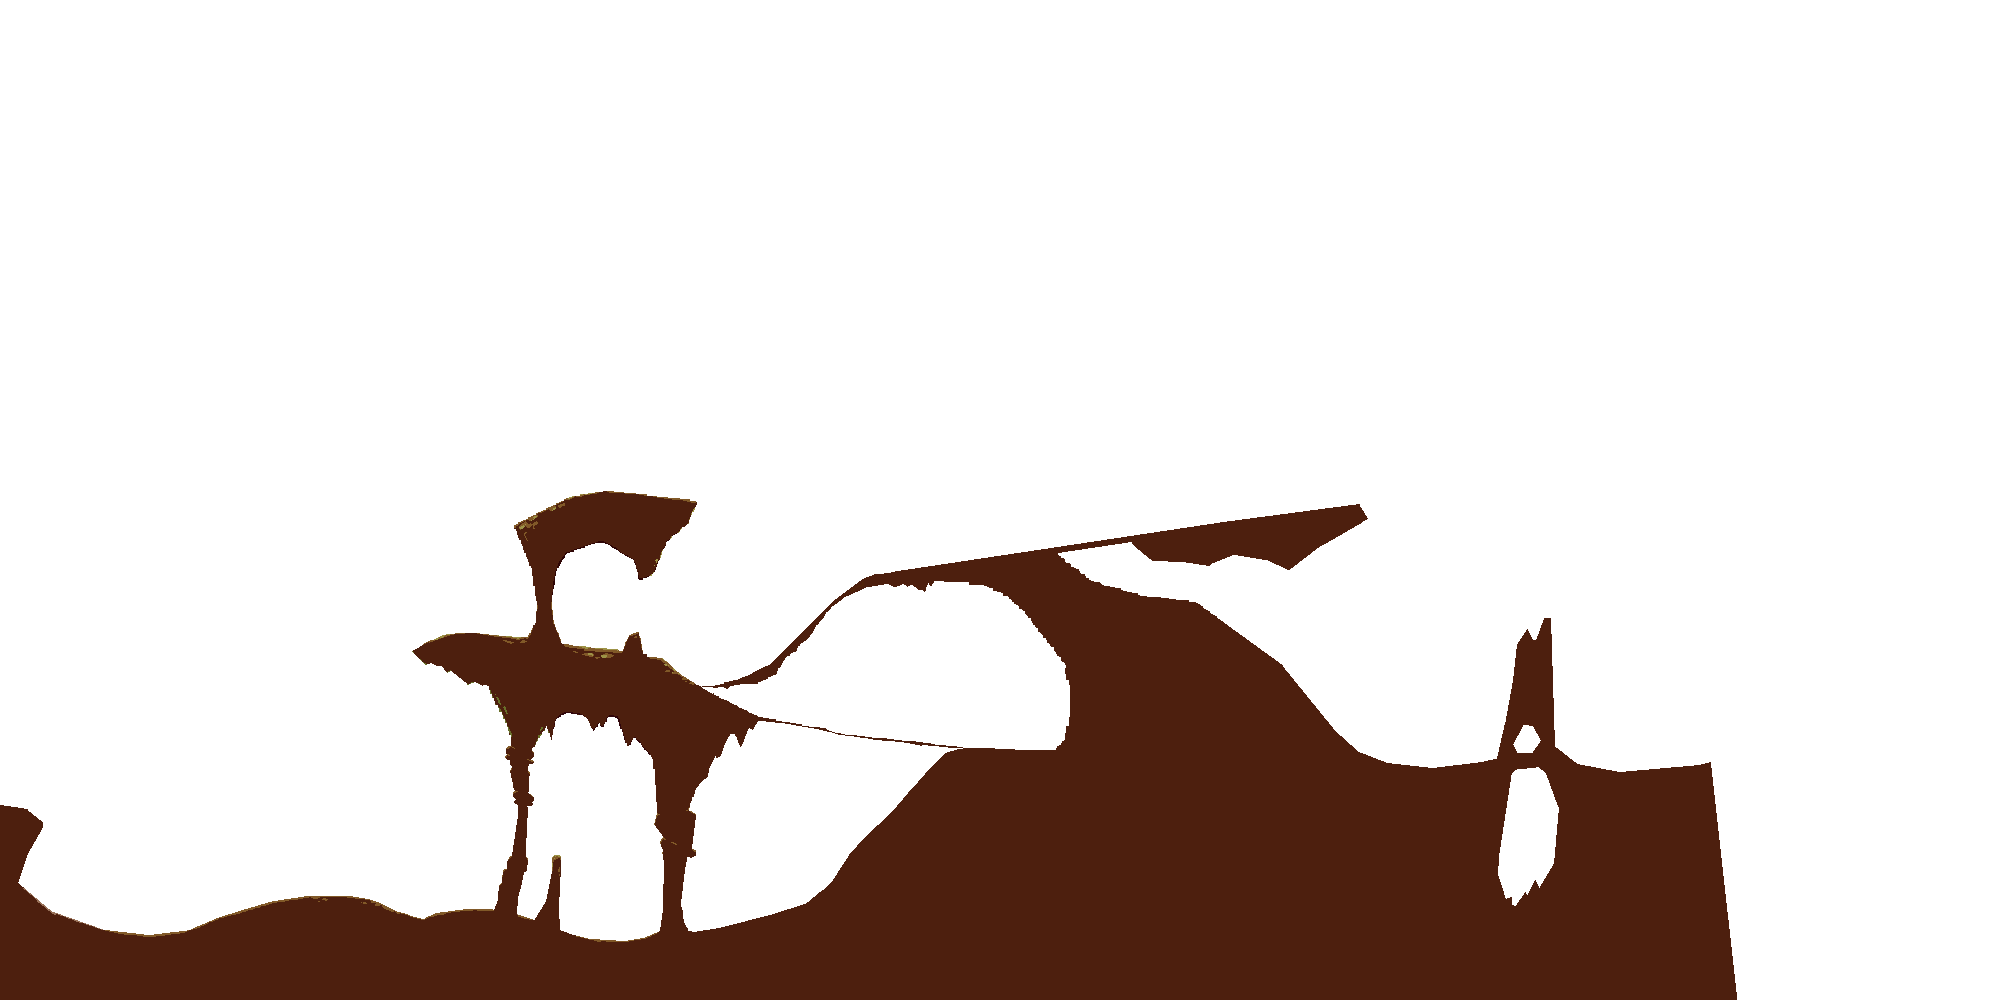
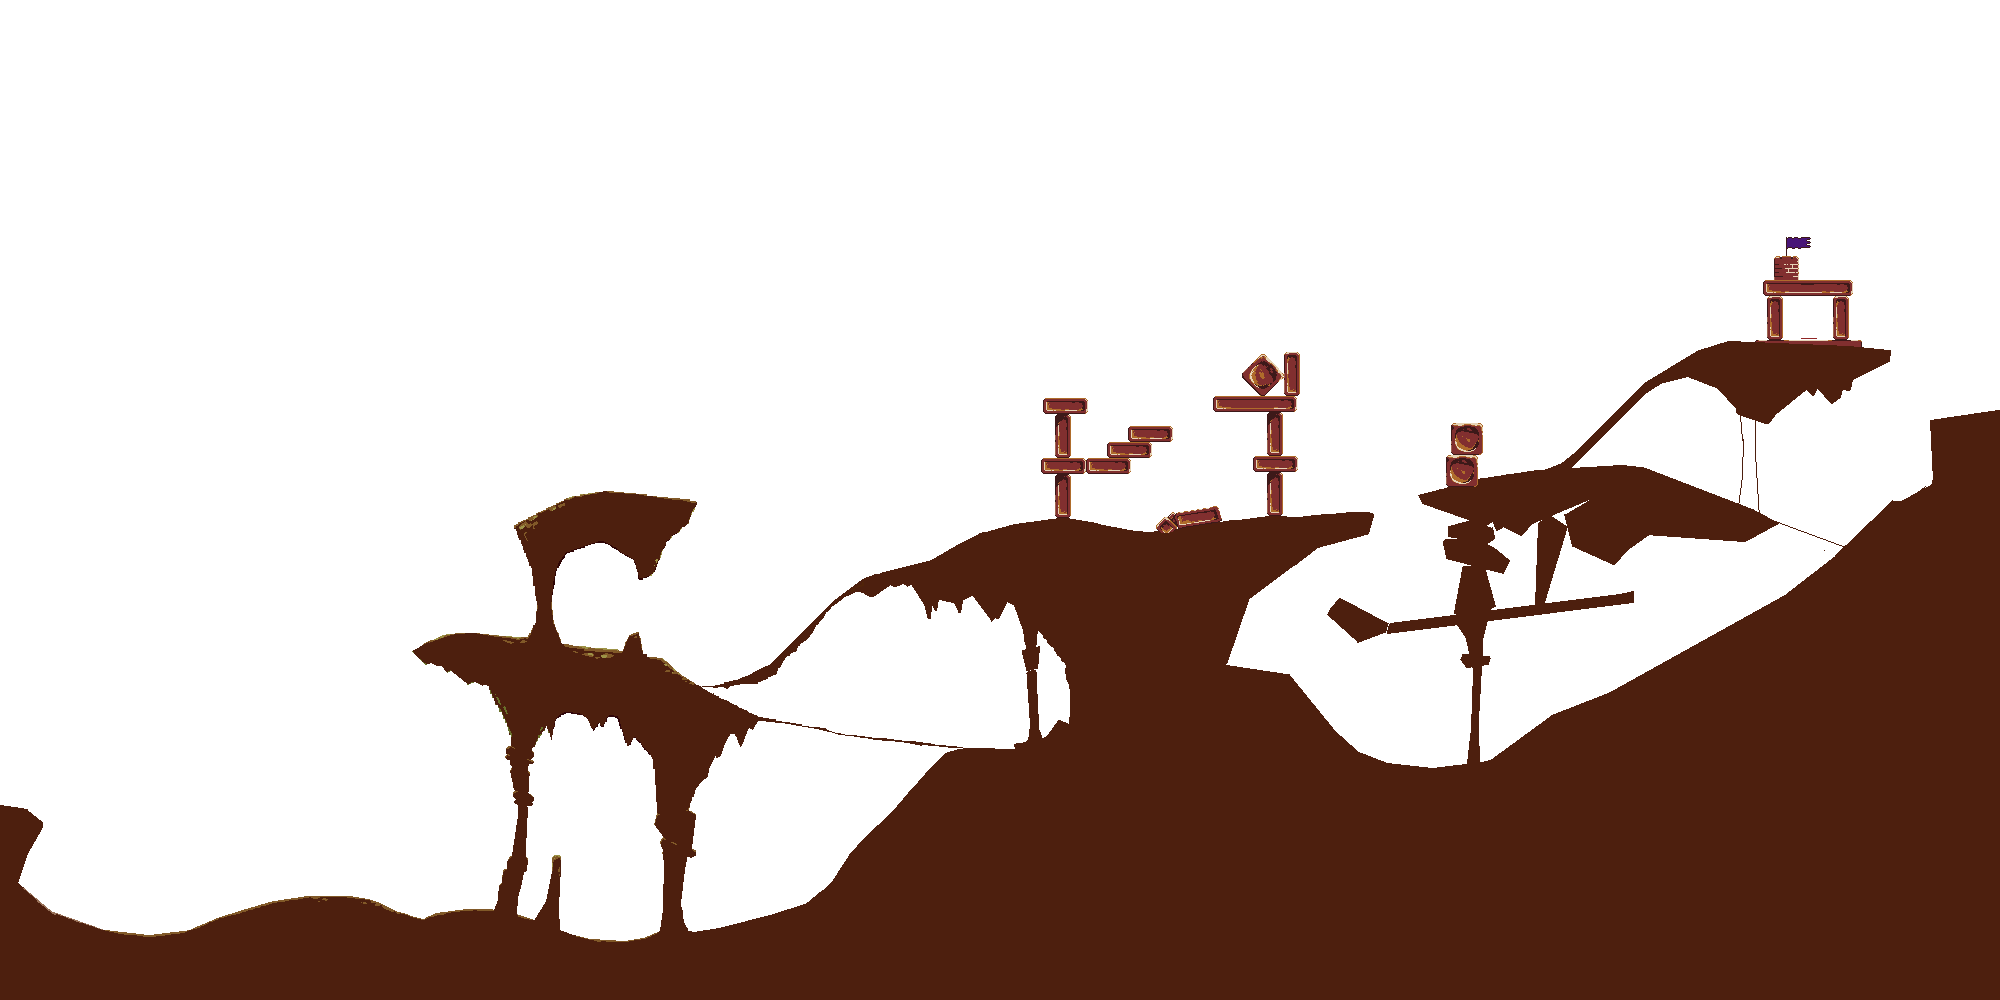
updated level and changed resolution, use a different resolution if the screen is showing black, so you know

Changed region(s): [[0.434, 0.341, 1.0, 1.0], [0.806, 0.248, 0.961, 0.434]]

diff --git a/src/pingus_world_tour.cpp b/src/pingus_world_tour.cpp
@@ -23,6 +23,7 @@ PingusWorldTour::LoadResources(){
     asset_manager.LoadDecal("../res/assets/exit_simple.png", "goal");
     asset_manager.LoadDecal("../res/assets/dev_terrain_remover.png", "terrain_remover");
     asset_manager.LoadDecal("../res/assets/bomber_explostion_range.png", "bomber_explosion_range");
+    asset_manager.LoadDecal("../res/assets/helicopter_placeholder.png", "helicopter");
     asset_manager.LoadDecal("../res/assets/widgets/exit_button_neutral.png", "exit_button_neutral");
     asset_manager.LoadDecal("../res/assets/widgets/exit_button_hover.png", "exit_button_hover");
     asset_manager.LoadDecal("../res/assets/widgets/exit_button_clicked.png", "exit_button_clicked");
@@ -30,7 +31,7 @@ PingusWorldTour::LoadResources(){
     asset_manager.LoadDecal("../res/assets/widgets/restart_button_hover.png", "restart_button_hover");
     asset_manager.LoadDecal("../res/assets/widgets/restart_button_clicked.png", "restart_button_clicked");
 
-    PlayLevel* play_level = new PlayLevel(&state_machine ,this, "../res/map/pingus_first_level/pingus_first_level.json");
+    PlayLevel* play_level = new PlayLevel(&state_machine ,this, "../res/map/autumn_day_clear_the_way/autumn_day_clear_the_way.json");
     state_machine.state_stack.push_back(play_level);
     state_machine.state_stack.push_back(new LevelLoader(&state_machine, &(play_level->level)));
     //state_machine.state_stack.push_back(new JsonLoadingTest(&state_machine));

diff --git a/src/spawner.cpp b/src/spawner.cpp
@@ -38,7 +38,9 @@ Spawner::Update(){
 }
 
 void
-Spawner::Draw(Camera* _camera){}
+Spawner::Draw(Camera* _camera){
+    _camera->DrawDecal(position-olc::vf2d(50.0f,50.0f), game->asset_manager.GetDecal("helicopter"));
+}
 
 std::string
 Spawner::GetType(){

diff --git a/src/main.cpp b/src/main.cpp
@@ -5,7 +5,7 @@
 int main()
 {
 	PingusWorldTour game;
-	if (game.Construct(1600, 800, 1, 1, false, true, true))
+	if (game.Construct(1920, 1000, 1, 1, false, true, true))
 		game.Start();
 
 	return 0;
